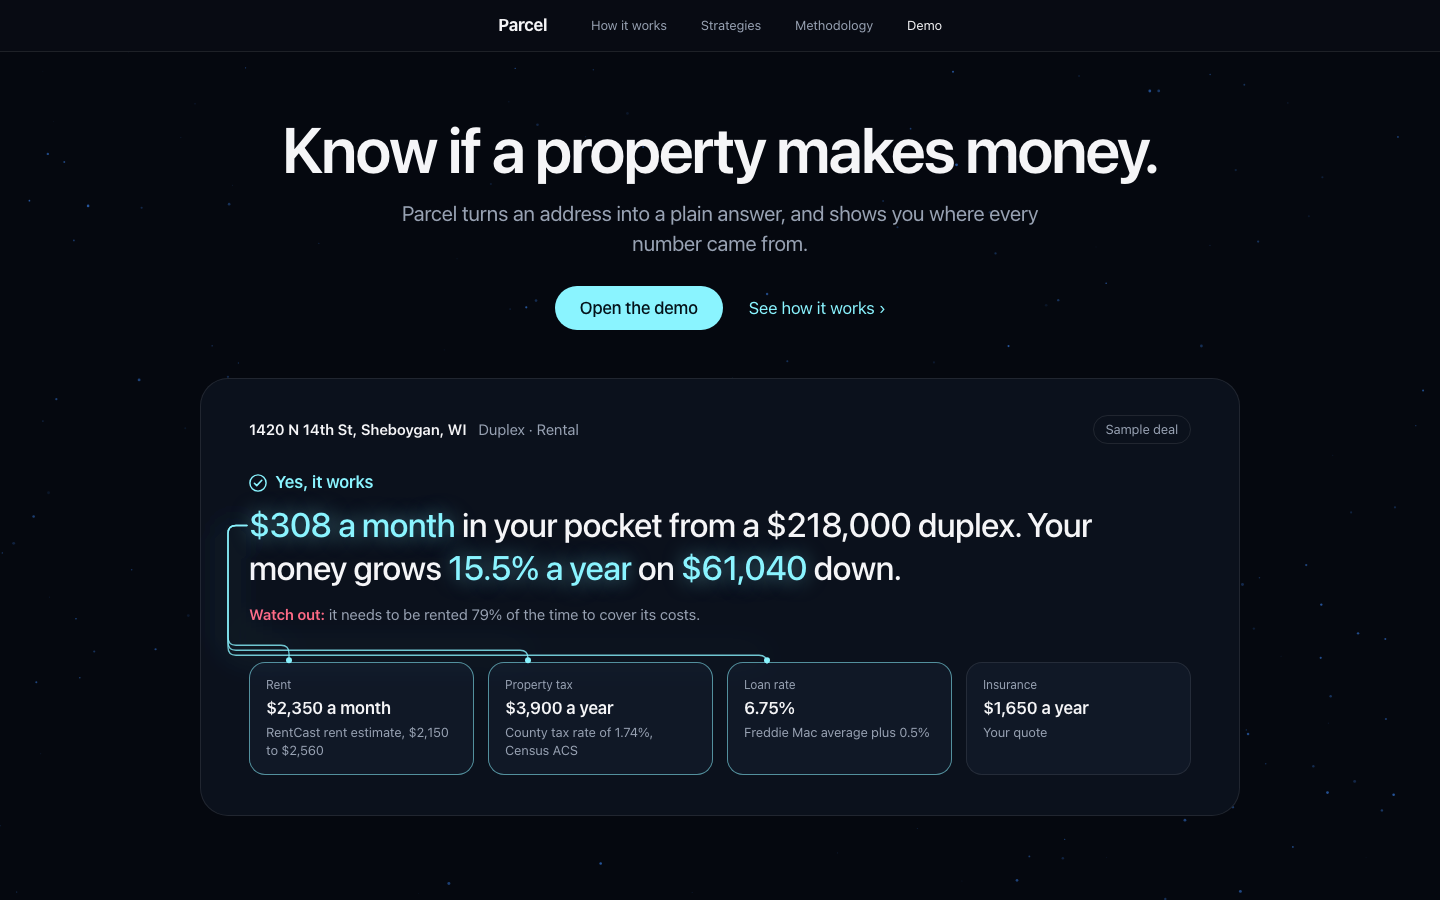
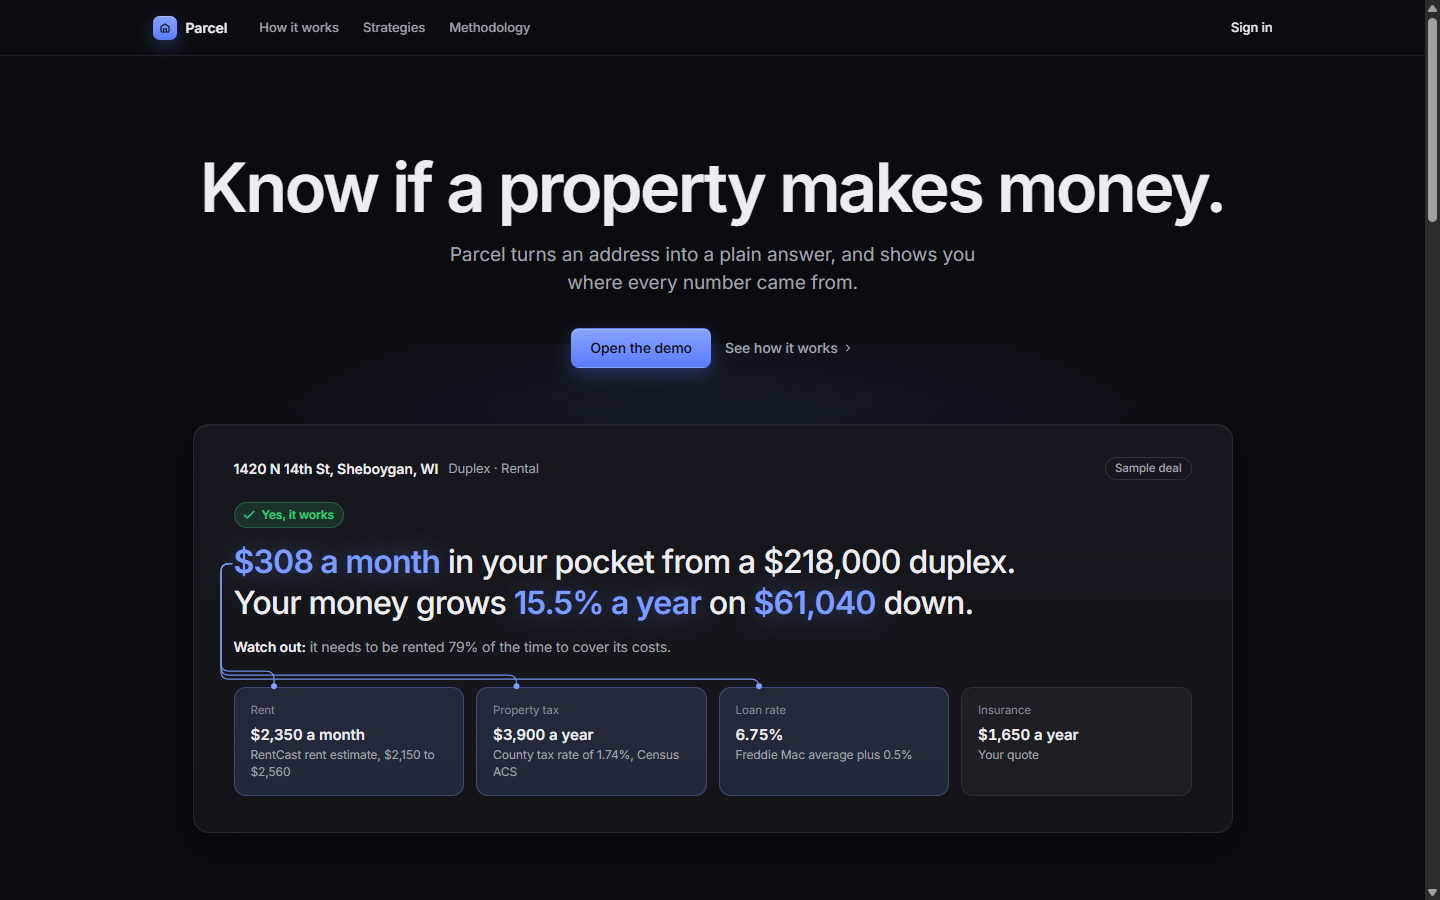
Say plainly when memos are off, and get the repo ready to read (#21)
A memo failure that repeats until the setup changes (a rejected key, no
credit, an unknown model) now ends the stream with memo_unavailable,
"Memos aren't available right now.", is not retried, and is logged at
error level with the API's message. Rate limits, overloads, server errors
and dropped connections keep the SDK's two retries with backoff and the
try-again message. Errors are sorted by the SDK's exception class,
because an error partway through a stream arrives on a 200 response.

README: the live URL, the design (boundaries, data ownership,
idempotency, failure handling, observability, what was left out), the
test suite and how to run it, the ADR index, and how AI was used. Fresh
screenshots. ADR 0008: recalculation follows a committed field, not
typing. ADR 0009: amended for the dark-first rebuild, and the UI
primitives "live in this repo" rather than "written by hand".

Claude-Session: https://claude.ai/code/session_01B99Ly2a23xmyd3xibfrB1g

diff --git a/api/src/parcel/http/routes/memo.py b/api/src/parcel/http/routes/memo.py
@@ -21,6 +21,8 @@ from parcel.settings import get_settings
 log = structlog.get_logger()
 router = APIRouter(prefix="/v1/deals/{deal_id}/memo", tags=["memo"])
 
+UNAVAILABLE = "Memos aren't available right now."
+
 
 @router.get("")
 async def get_memo(deal_id: uuid.UUID, session: Tenant) -> MemoOut:
@@ -55,7 +57,7 @@ async def start(deal_id: uuid.UUID, request: Request, principal: CurrentPrincipa
         if existing is not None and existing.scenario_hash == scenario:
             return replace(job, cached=memos.to_out(existing, scenario))
         if request.app.state.writer is None:
-            raise Problem(503, "memo_unavailable", "Memos aren't available right now.")
+            raise Problem(503, "memo_unavailable", UNAVAILABLE)
         pro = principal.plan is Plan.pro
         limit = settings.memos_per_day_pro if pro else settings.memos_per_day_free
         today = date.today()
@@ -108,8 +110,14 @@ async def write_memo(
                     log.info("memo_written", deal=str(job.deal_id), grounded=saved.grounded)
                     yield ServerSentEvent(event="done", data=memos.to_out(saved, job.scenario))
     except WriterError as e:
-        log.warning("memo_failed", deal=str(job.deal_id), error=str(e))
-        failure = MemoProblem(
-            code="memo_failed", title="The memo couldn't be written. Try again in a minute."
-        )
+        if e.retryable:
+            log.warning("memo_failed", deal=str(job.deal_id), retryable=True, error=str(e))
+            failure = MemoProblem(
+                code="memo_failed", title="The memo couldn't be written. Try again in a minute."
+            )
+        else:
+            # A rejected key, no credit or an unknown model: asking again won't help,
+            # so say memos are off rather than inviting a retry.
+            log.error("memo_failed", deal=str(job.deal_id), retryable=False, error=str(e))
+            failure = MemoProblem(code="memo_unavailable", title=UNAVAILABLE)
         yield ServerSentEvent(event="error", data=failure)

diff --git a/api/tests/adapters/test_anthropic.py b/api/tests/adapters/test_anthropic.py
@@ -61,9 +61,32 @@ async def test_text_arrives_piece_by_piece() -> None:
 
 
 async def test_an_api_error_becomes_a_writer_error() -> None:
-    def handler(_: httpx2.Request) -> httpx2.Response:
+    def refused(_: httpx2.Request) -> httpx2.Response:
         error = {"type": "invalid_request_error", "message": "bad model"}
         return httpx2.Response(400, json={"type": "error", "error": error})
 
-    with pytest.raises(WriterError):
-        [t async for t in _writer(handler).stream("s", [("user", "hi")])]
+    with pytest.raises(WriterError) as refusal:
+        [t async for t in _writer(refused).stream("s", [("user", "hi")])]
+    assert not refusal.value.retryable
+
+    def overloaded(_: httpx2.Request) -> httpx2.Response:
+        error = {"type": "overloaded_error", "message": "Overloaded"}
+        # The header turns off the SDK's own retries, so the test doesn't sit through them.
+        headers = {"x-should-retry": "false"}
+        return httpx2.Response(529, json={"type": "error", "error": error}, headers=headers)
+
+    with pytest.raises(WriterError) as outage:
+        [t async for t in _writer(overloaded).stream("s", [("user", "hi")])]
+    assert outage.value.retryable
+
+    # An error partway through a stream arrives on a 200 response, so it is judged
+    # by its kind of exception, not its status code.
+    overload = {"type": "error", "error": {"type": "overloaded_error", "message": "Overloaded"}}
+    cut_off = STREAM.split(b"event: content_block_stop")[0] + _sse(overload)
+
+    def midway(_: httpx2.Request) -> httpx2.Response:
+        return httpx2.Response(200, content=cut_off, headers={"content-type": "text/event-stream"})
+
+    with pytest.raises(WriterError) as dropped:
+        [t async for t in _writer(midway).stream("s", [("user", "hi")])]
+    assert dropped.value.retryable

diff --git a/api/src/parcel/adapters/anthropic.py b/api/src/parcel/adapters/anthropic.py
@@ -1,14 +1,36 @@
 from collections.abc import AsyncIterator, Sequence
 from typing import Literal, Protocol
 
-from anthropic import APIError, AsyncAnthropic, DefaultAsyncHttpxClient
+from anthropic import (
+    APIError,
+    AsyncAnthropic,
+    AuthenticationError,
+    BadRequestError,
+    DefaultAsyncHttpxClient,
+    NotFoundError,
+    PermissionDeniedError,
+    UnprocessableEntityError,
+)
 from anthropic.types import MessageParam
 
 type Turn = tuple[Literal["user", "assistant"], str]
 
+LASTING = (
+    AuthenticationError,
+    PermissionDeniedError,
+    NotFoundError,
+    BadRequestError,
+    UnprocessableEntityError,
+)
+"""Refusals that repeat on every call until someone changes the setup: a key that
+was rejected, an account out of credit, a model name the API doesn't know.
+Rate limits, overloads, server errors and dropped connections pass with time."""
+
 
 class WriterError(Exception):
-    pass
+    def __init__(self, message: str, *, retryable: bool = True) -> None:
+        super().__init__(message)
+        self.retryable = retryable
 
 
 class Writer(Protocol):
@@ -42,4 +64,4 @@ class ClaudeWriter:
                 async for text in response.text_stream:
                     yield text
         except APIError as e:
-            raise WriterError(str(e)) from e
+            raise WriterError(str(e), retryable=not isinstance(e, LASTING)) from e

diff --git a/api/tests/api/test_memo.py b/api/tests/api/test_memo.py
@@ -5,6 +5,9 @@ import httpx
 import pytest
 from fastapi import FastAPI
 
+from parcel.adapters.anthropic import WriterError
+from parcel.http.routes.memo import UNAVAILABLE
+
 from ..writer import FakeWriter
 from .conftest import Login, OverrideSettings, deal_body
 
@@ -135,7 +138,7 @@ async def test_the_shared_daily_budget(
     assert writer.calls == []
 
 
-async def test_a_model_outage_ends_the_stream_cleanly(
+async def test_a_model_failure_ends_the_stream_cleanly(
     client: httpx.AsyncClient, me: dict[str, str], writer: FakeWriter
 ) -> None:
     deal_id = await _deal(client, me)
@@ -143,6 +146,13 @@ async def test_a_model_outage_ends_the_stream_cleanly(
     events = _events(await _write(client, me, deal_id))
     assert [kind for kind, _ in events] == ["error"]
     assert events[0][1]["code"] == "memo_failed"
+    assert (await client.get(f"/v1/deals/{deal_id}/memo", headers=me)).status_code == 404
+
+    # A rejected key won't pass with time, so the reader is told memos are off
+    # rather than invited to try again in a minute.
+    writer.fail = WriterError("invalid x-api-key", retryable=False)
+    events = _events(await _write(client, me, deal_id))
+    assert events == [("error", {"code": "memo_unavailable", "title": UNAVAILABLE})]
     assert (await client.get(f"/v1/deals/{deal_id}/memo", headers=me)).status_code == 404
 
 

diff --git a/api/tests/writer.py b/api/tests/writer.py
@@ -8,7 +8,7 @@ class FakeWriter:
 
     model = "fake-writer"
 
-    def __init__(self, *drafts: str, fail: bool = False) -> None:
+    def __init__(self, *drafts: str, fail: bool | WriterError = False) -> None:
         self.drafts = list(drafts)
         self.fail = fail
         self.calls: list[list[Turn]] = []
@@ -17,6 +17,8 @@ class FakeWriter:
     async def stream(self, system: str, turns: Sequence[Turn]) -> AsyncIterator[str]:
         self.system = system
         self.calls.append(list(turns))
+        if isinstance(self.fail, WriterError):
+            raise self.fail
         if self.fail:
             raise WriterError("overloaded")
         draft = self.drafts.pop(0)

diff --git a/README.md b/README.md
@@ -2,6 +2,8 @@
 
 Know if a property makes money.
 
+Live at **https://parceldesk.io**. "Open the demo" loads five sample deals with no account and nothing to install.
+
 Parcel turns an address into a plain answer. Paste the address, say what you would do with it (rent it, flip it, BRRRR it, wholesale it, or take over the seller's loan), and it tells you in a sentence whether the deal works, what it depends on, and what would break it. Every number can be traced back to where it came from.
 
 ![The landing page](docs/screenshots/landing.png)
@@ -28,6 +30,8 @@ web/   React 19, Vite, TanStack Router and Query, a client typed from the API's 
 docs/  decision records and the screenshots above
 ```
 
+The API runs as a Docker image on Railway (`api/Dockerfile`, `api/railway.toml`) and the web app on Vercel, with the public pages prerendered. Accounts are Clerk, billing is Stripe in test mode, and the memo calls Anthropic's API.
+
 A few choices worth knowing about, each written up in [docs/decisions](docs/decisions):
 
 - The engine is pure and vectorized. One analysis takes about 0.3 ms; a ten thousand run simulation about 150 ms.
@@ -35,7 +39,50 @@ A few choices worth knowing about, each written up in [docs/decisions](docs/deci
 - Postgres does everything: provider caches, usage limits, demo sandboxes. No Redis, no worker.
 - Tenant isolation is enforced by the database with forced row level security, and proven by tests.
 - The browser computes nothing financial. It asks the API, which answers in a few milliseconds, and turns the figures into words.
-- The design follows Apple's Human Interface Guidelines: system font, one accent color, light and dark following the device, no component library.
+- The interface is dark first with a light theme that follows the device until you pick one: Inter, one blue accent for the numbers you can trace, CSS modules, no component library.
+
+### Boundaries
+
+- `api/src/parcel/engine/` does the math and nothing else: no database, no network, no clock. Inputs go in, a ledger and its metrics come out ([0001](docs/decisions/0001-one-ledger-for-every-strategy.md), [0002](docs/decisions/0002-solve-backwards-on-the-forward-model.md)).
+- `domain/` holds the rules (lookups, memos, billing, usage limits) and talks to the database. `adapters/` is where calls to outside services live: RentCast, the Census geocoder and ACS, HUD, FRED, Geoapify, Clerk, Stripe and Anthropic. `http/routes/` turns requests into domain calls.
+- The web app owns words, not numbers. Every figure on screen comes from the API, and the client's types are generated from the API's OpenAPI schema, so a renamed field fails the typecheck ([0008](docs/decisions/0008-no-finance-math-in-the-browser.md)).
+
+### Who owns the data
+
+- Postgres holds all of Parcel's state in seven tables, changed only through Alembic migrations (`api/src/parcel/db/`, [0003](docs/decisions/0003-postgres-does-everything.md)).
+- A user's deals, actuals and memos belong to that user, and the database enforces it. Row level security is forced on the tenant tables, the API connects as a role that can't bypass it, and every request sets the current user inside its transaction (`db/session.py`, [0004](docs/decisions/0004-row-level-security.md)). `tests/api/test_isolation.py` shows a planted write for another user failing in the database itself.
+- Clerk owns identities and Stripe owns payments. Parcel keeps a user row keyed by the Clerk subject and the plan it reads from Stripe's events ([0005](docs/decisions/0005-clerk-for-accounts-and-a-demo-without-it.md)).
+- Provider answers are cached with their source and date, and that label follows the number onto the screen.
+
+### Repeats, retries and idempotency
+
+- Stripe can deliver a webhook more than once and out of order. Each event id is recorded once (`on conflict do nothing`), so a repeat does nothing, and events are applied by Stripe's own timestamp per user rather than by arrival (`domain/billing.py`).
+- Writes that set state carry the new value instead of toggling it. `PUT /v1/deals/{id}/stage` names the stage and `PUT /v1/deals/{id}/actuals/{month}` replaces that month, so sending either twice leaves the same result.
+- A memo is stored with a hash of the deal's inputs. Asking again for an unchanged deal returns the saved memo without calling the model ([0007](docs/decisions/0007-a-memo-that-cannot-invent-numbers.md)).
+- Usage limits (lookups, memos, demo sessions) are counters in Postgres, taken inside the request's transaction.
+
+### When something fails
+
+- A missing cost is never treated as zero. If a required cost is unknown, the analysis is blocked and the page lists what it still needs.
+- A data provider that fails returns nothing rather than a guess, and the lookup says what didn't come back. RentCast is rationed per user per day and across all users per month; when either budget is spent or RentCast fails, rent comes from HUD Fair Market Rent with a note saying so (`domain/lookup.py`).
+- The memo's figures are checked against the engine. A mismatch gets one rewrite; if it still doesn't match, the memo is shown with the unmatched figures listed ([0007](docs/decisions/0007-a-memo-that-cannot-invent-numbers.md)).
+- If the model call itself fails, the memo stream ends with an error the page shows. A failure that passes with time (rate limit, overload, server error, dropped connection) is retried twice with backoff by the Anthropic SDK, then the page says to try again in a minute. A failure that won't pass on its own (a rejected key, no credit, an unknown model) isn't retried: the page says memos aren't available and the API logs the cause at error level (`adapters/anthropic.py`, `http/routes/memo.py`).
+- Production refuses to start without its secrets and database URL, instead of falling back to development defaults (`settings.py`).
+
+### What you can see from outside
+
+- Every request writes one structured log line: method, route, status and milliseconds, with share tokens removed from paths. A request id is returned in `x-request-id` and bound to every log line for that request (`app.py`).
+- Exceptions go to Sentry with local variables off and tokens scrubbed (`app.py`, `redact.py`).
+- `/healthz` answers if the process is up; `/readyz` also checks the database and is the deploy health check (`api/railway.toml`).
+- Not there yet: nothing alerts on failed lookups or failed memos. They show up in the logs and on the page, and someone has to look.
+
+### Left out on purpose
+
+- No Redis, queue or background worker. Caches, counters and demo sandboxes are rows in Postgres, and the memo streams from the request that asked for it ([0003](docs/decisions/0003-postgres-does-everything.md)).
+- No services to split. One API (two uvicorn workers by default, sharing nothing but Postgres) and one database.
+- No finance math in the browser, and no component library or CSS framework ([0008](docs/decisions/0008-no-finance-math-in-the-browser.md), [0009](docs/decisions/0009-plain-css-and-the-system-font.md)).
+- No document uploads or file storage in this version.
+- Income taxes, depreciation, 1031 exchanges, rent control and partial month proration aren't modeled. The [methodology page](https://parceldesk.io/methodology) lists what the math leaves out.
 
 ## Running it
 
@@ -50,7 +97,7 @@ make web                     # the app on :5173, proxying /v1 to the API
 
 Open http://localhost:5173 and click "Open the demo". The demo uses recorded figures for a few Sheboygan, WI addresses, so it never spends API calls. Real lookups need keys in `api/.env` (RentCast, Geoapify, FRED, HUD); accounts need a Clerk instance; the memo needs an Anthropic key; billing needs Stripe test keys. Each is optional and the app says plainly when a feature is off.
 
-## Testing
+## Tests and CI
 
 ```sh
 make check          # ruff, mypy strict, pytest against Postgres with a 95% coverage floor
@@ -58,6 +105,8 @@ cd web && pnpm lint && pnpm typecheck && pnpm test   # ESLint strict, tsc, vites
 cd web && pnpm e2e  # Playwright through the demo, with axe accessibility checks (API must be running)
 k6 run api/loadtest/analyze.js   # the workspace's paths under load
 ```
+
+GitHub Actions (`.github/workflows/ci.yml`) runs four jobs on every push to `main` and every pull request: `api` (ruff, mypy strict, pytest against Postgres 17 with the 95% floor), `web` (ESLint, tsc, Vitest, a production build), `e2e` (Playwright against a local API) and `image` (the Docker build). As of October 2026 the suite is 313 pytest tests at 97.5% line and branch coverage, 160 Vitest tests in 24 files, and 25 Playwright end-to-end tests plus the Clerk sign-in setup step, which Playwright's summary counts as a 26th. Five of the Playwright spec files run axe accessibility scans. The signed-in specs need a Clerk development instance; CI reads its keys and test accounts from repository secrets.
 
 The engine's tests check every formula on the [methodology page](web/src/features/methodology/methodology.tsx) against worked examples, and property tests confirm that solving backwards then forwards lands where it started. An offline set of twenty deals exercises the memo check.
 
@@ -71,8 +120,26 @@ Measured on 2026-10-09 on a laptop, API running two workers, 20 virtual users fo
 | List deals with their summaries | 12 ms | 25 ms |
 | Sensitivity (tornado and grid) | 24 ms | 54 ms |
 
-192 requests a second with no failures. The web app's main bundle is 92 KB gzipped; the public pages are prerendered.
+192 requests a second with no failures. Before the analysis cache and the second worker (PR #5), the same load test measured a p95 of 166 ms for recalculating a deal and 252 ms for the deal list. Two things to know when reading these: the script varies rent across about 400 values, so after warm-up most recalculations are cache hits, and a single uncontended request took 5.6 ms end to end. Measured from Wisconsin against production on 2026-10-23, the same call took about 270 to 430 ms, most of it network: the empty health check alone took about 200 ms.
+
+The web app's main bundle is about 95 KB gzipped; the public pages are prerendered.
+
+## Decision records
+
+1. [One ledger for every strategy](docs/decisions/0001-one-ledger-for-every-strategy.md)
+2. [Solve backwards on the forward model](docs/decisions/0002-solve-backwards-on-the-forward-model.md)
+3. [Postgres does everything](docs/decisions/0003-postgres-does-everything.md)
+4. [Row level security for tenant isolation](docs/decisions/0004-row-level-security.md)
+5. [Clerk for accounts, and a demo that needs none](docs/decisions/0005-clerk-for-accounts-and-a-demo-without-it.md)
+6. [Dollars as decimals, rounded at the edge](docs/decisions/0006-dollars-as-decimals-rounded-at-the-edge.md)
+7. [A memo that cannot invent numbers](docs/decisions/0007-a-memo-that-cannot-invent-numbers.md)
+8. [No finance math in the browser](docs/decisions/0008-no-finance-math-in-the-browser.md)
+9. [Plain CSS and the system font](docs/decisions/0009-plain-css-and-the-system-font.md) (amended: the interface was rebuilt dark first with Inter the same day)
+
+## How AI was used
+
+Parcel was built with AI coding agents, mainly Claude Code, under Ivan's direction. Ivan decided what to build, chose between designs and rejected the ones that didn't work, and made the call on each merge. The agents wrote most of the code, tests and documentation. Reviews were run by agents as well (Claude's code review and OpenAI's Codex, read only), and each confirmed finding was fixed with a test that failed first. The test suite and CI are how the work was checked. The commits from the October build are authored by Ivan with no AI co-author trailers, so read the whole history as AI-assisted. In the running app, the only model call is the deal memo, and its numbers are checked against the engine before anyone sees them.
 
 ## License
 
-MIT.
+MIT. See [LICENSE](LICENSE).

diff --git a/docs/decisions/0009-plain-css-and-the-system-font.md b/docs/decisions/0009-plain-css-and-the-system-font.md
@@ -8,8 +8,12 @@ The old site had a violet gradient look that could have belonged to any startup,
 
 ## Decision
 
-The design follows Apple's Human Interface Guidelines: the system font, a warm neutral ground, white cards, one accent color reserved for the primary action and any number you can trace, and plain language with finance terms one tap deeper. Styling is CSS modules over a small set of custom properties, with light and dark appearances following the device. No Tailwind, no component library; the handful of primitives (button, card, segmented control, the trace overlay, one chart) are written by hand. The signature interaction is the trace: tap a number and thin lines run from its explanation to the inputs it depends on.
+The design follows Apple's Human Interface Guidelines: the system font, a warm neutral ground, white cards, one accent color reserved for the primary action and any number you can trace, and plain language with finance terms one tap deeper. Styling is CSS modules over a small set of custom properties, with light and dark appearances following the device. No Tailwind, no component library; the handful of primitives (button, card, segmented control, the trace overlay, one chart) live in this repo. The signature interaction is the trace: tap a number and thin lines run from its explanation to the inputs it depends on.
 
 ## Consequences
 
 The main bundle is about 90 KB gzipped and the design reads as one thing. Adding a component means writing it, which keeps the set small. The trace overlay measures the DOM, so it is drawn in a passive effect after layout and switched off on narrow screens where the inputs stack below the answer.
+
+## Amended later the same day
+
+The visual direction in this record did not survive review. Commit 07b0614 (2026-10-09) rebuilt the interface dark first: layered dark surfaces with hairline borders instead of the warm neutral ground and white cards, Inter instead of the system font, and a sidebar. A light theme stays available; the app follows the device until someone picks one in the app. The rest of the decision still holds: CSS modules over custom properties, no Tailwind and no component library, one blue accent reserved for the primary action and for numbers you can trace, and the trace as the signature interaction. The title is kept so links to this record keep working.

diff --git a/docs/decisions/0008-no-finance-math-in-the-browser.md b/docs/decisions/0008-no-finance-math-in-the-browser.md
@@ -8,7 +8,7 @@ The old frontend had a sensitivity matrix with its own formulas, including a str
 
 ## Decision
 
-The web app computes nothing financial. Every number on screen comes from the API, including the live recalculation while you type, which is a debounced call to the analyze endpoint that answers in well under a millisecond of engine time. The client is generated from the API's OpenAPI schema, so a renamed field fails the typecheck instead of showing a blank. What the browser does own is words: turning the engine's figures into the plain sentences and explanations the app leads with, and that module has unit tests of its own.
+The web app computes nothing financial. Every number on screen comes from the API, including the live recalculation after you change an input (a field takes its new value when you leave it or press Enter), which is a debounced call to the analyze endpoint that answers in well under a millisecond of engine time. The client is generated from the API's OpenAPI schema, so a renamed field fails the typecheck instead of showing a blank. What the browser does own is words: turning the engine's figures into the plain sentences and explanations the app leads with, and that module has unit tests of its own.
 
 ## Consequences
 
